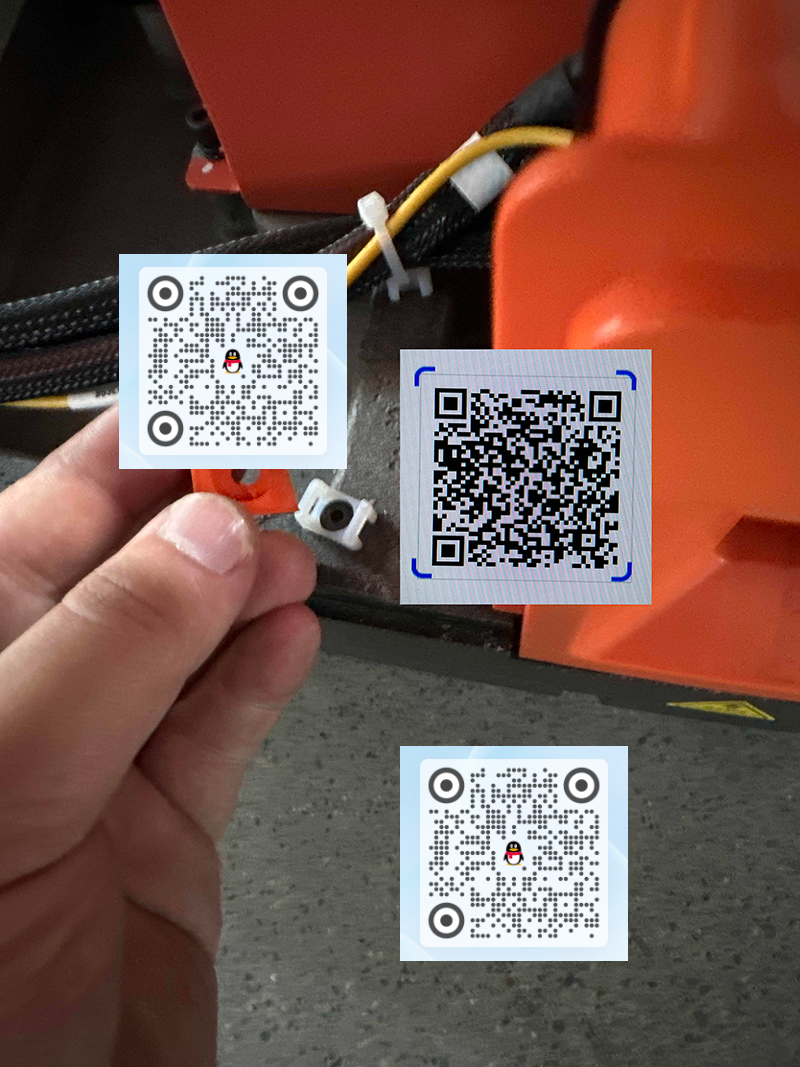
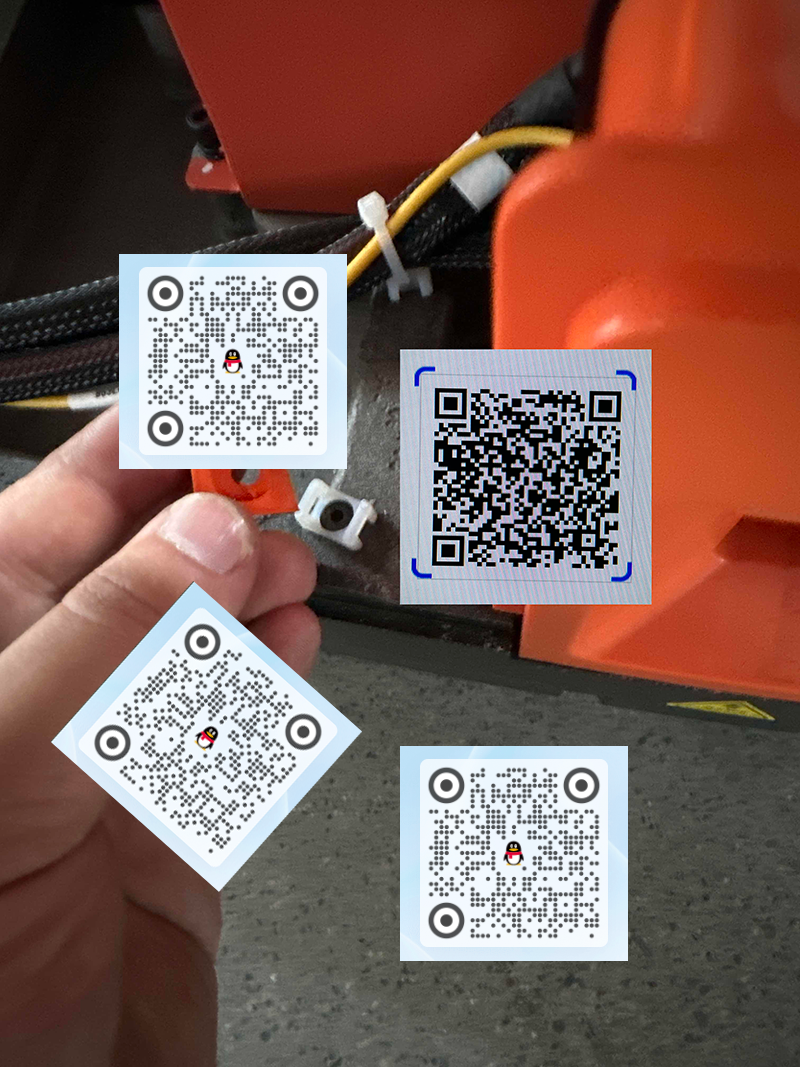
example 15: 加入一个注释.另外,示例图片中还有一个二维码检测不出来.

Changed region(s): [[0.0625, 0.5258, 0.4688, 0.8351]]

diff --git a/test15_qrcode.py b/test15_qrcode.py
@@ -13,27 +13,29 @@ def find_squares(img):
     gray = cv.cvtColor(img, cv.COLOR_BGR2GRAY)
     bin = cv.Canny(gray, 30, 100, apertureSize=3)
     contours, _hierarchy = cv.findContours(bin, cv.RETR_EXTERNAL, cv.CHAIN_APPROX_SIMPLE)
+    cv.imshow('afterCanny',bin )
+    ch = cv.waitKey()
     print("轮廓数量：%d" % len(contours))
     index = 0
     # 轮廓遍历
     for cnt in contours:
         cnt_len = cv.arcLength(cnt, True) #计算轮廓周长
-        cnt = cv.approxPolyDP(cnt, 0.02*cnt_len, True) #多边形逼近
-        # 条件判断逼近边的数量是否为4，轮廓面积是否大于1000，检测轮廓是否为凸的
-        if len(cnt) == 4 and cv.contourArea(cnt) > 1000 and cv.isContourConvex(cnt):
-            M = cv.moments(cnt) #计算轮廓的矩
-            cx = int(M['m10']/M['m00'])
-            cy = int(M['m01']/M['m00'])#轮廓重心
+        cnt = cv.approxPolyDP(cnt, 0.1*cnt_len, True) #多边形逼近, x*cnt_len为精度参数,越小越精确。0.1 可以检测出三个，0.2 时检测出零个。当为0.02 时，最终会检测出两个轮廓。
+        if len(cnt) == 4: # 条件判断逼近边的数量是否为4
+            if  cv.contourArea(cnt) > 600: # 条件判断轮廓面积是否大于1000
+               if cv.isContourConvex(cnt): # 检测轮廓是否为凸的
+                    print(cnt)
+                    M = cv.moments(cnt) #计算轮廓的矩
+                    cx = int(M['m10']/M['m00'])
+                    cy = int(M['m01']/M['m00'])#轮廓重心
 
-            cnt = cnt.reshape(-1, 2)
-            max_cos = np.max([angle_cos( cnt[i], cnt[(i+1) % 4], cnt[(i+2) % 4] ) for i in range(4)])
-            # 只检测矩形（cos90° = 0）
-            if max_cos < 0.1:
-            # 检测四边形（不限定角度范围）
-            #if True:
-                index = index + 1
-                cv.putText(img,("#%d"%index),(cx,cy),font,0.7,(255,0,255),2)
-                squares.append(cnt)
+                    cnt = cnt.reshape(-1, 2)
+                    max_cos = np.max([angle_cos( cnt[i], cnt[(i+1) % 4], cnt[(i+2) % 4] ) for i in range(4)])
+                    # 只检测矩形（cos90° = 0）
+                    if max_cos < 0.1:
+                        index = index + 1
+                        cv.putText(img,("#%d"%index),(cx,cy),font,0.7,(255,0,255),2)
+                        squares.append(cnt)
     return squares, img
 
 img = cv.imread("./qrcode.png")
